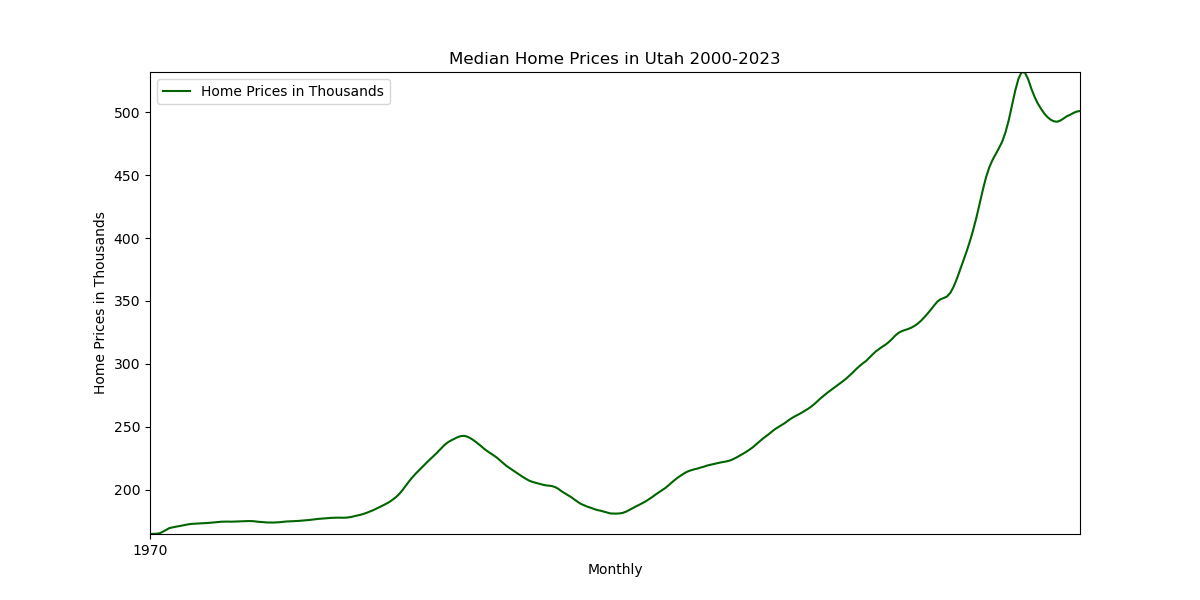
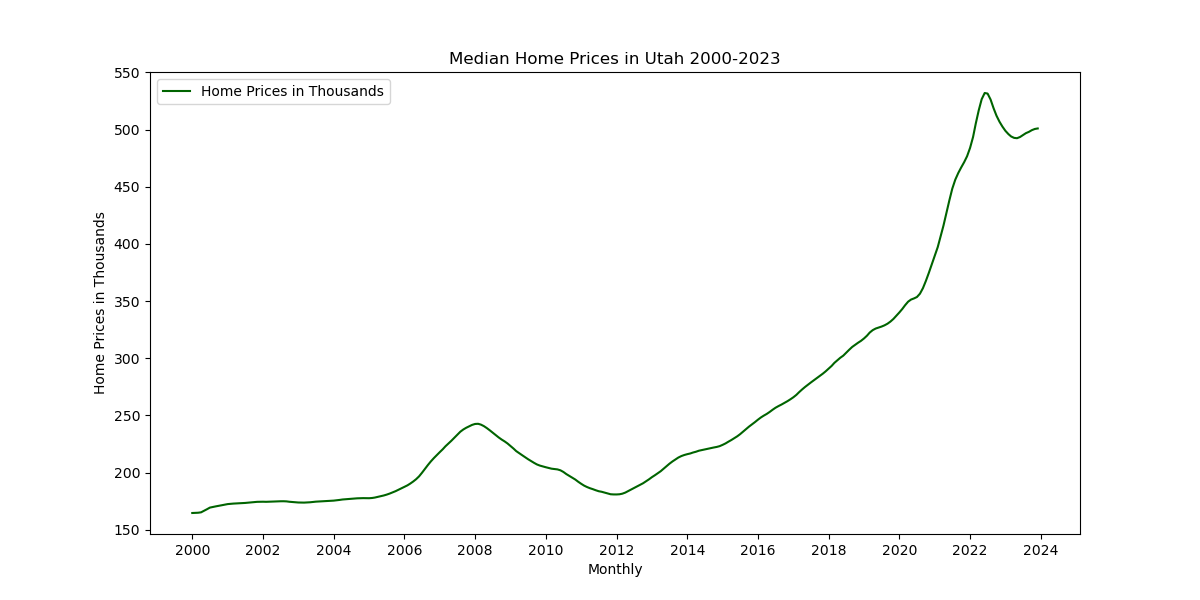
Tics and Tic Labels corrected.

diff --git a/Utah_Housing_Prices.py b/Utah_Housing_Prices.py
@@ -16,6 +16,8 @@ median_house_price_df = pd.read_csv(median_house_price_path, parse_dates=True)
 median_house_price_df.columns = ["Date", "Home Prices"]
 # simplify price column to thousands
 median_house_price_df["Home Prices"] = round(median_house_price_df["Home Prices"]/1000, 2)
+# ensure date time (didn't seem to work with parsing on read csv)
+median_house_price_df["Date"] = pd.to_datetime(median_house_price_df["Date"])
 # set date as index
 median_house_price_df = median_house_price_df.set_index("Date")
 
@@ -30,8 +32,7 @@ med_house_ax.plot(median_house_price_df.index,
 med_house_ax.set_title("Median Home Prices in Utah 2000-2023")
 med_house_ax.set_xlabel("Monthly")
 med_house_ax.set_ylabel("Home Prices in Thousands")
-med_house_ax.xaxis.set_major_locator(mdates.YearLocator(1,month=1,day=1))
+med_house_ax.xaxis.set_major_locator(mdates.YearLocator(2))
 med_house_ax.xaxis.set_major_formatter(mdates.DateFormatter("%Y"))
 med_house_ax.legend()
-plt.autoscale(tight=True)
 plt.savefig(Path("Output/Median_Home_Price_Increase.png"))
